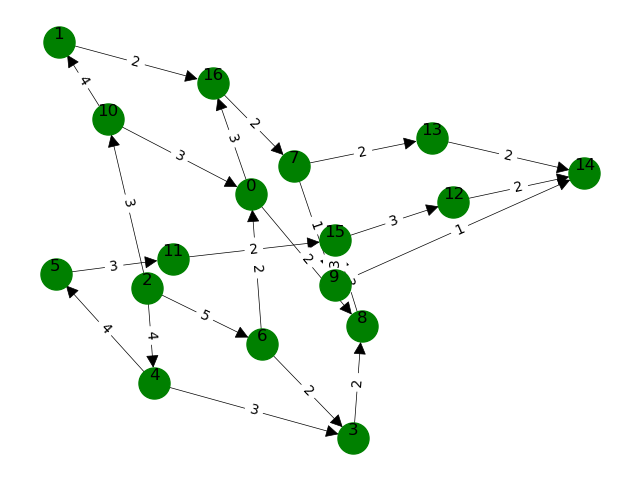
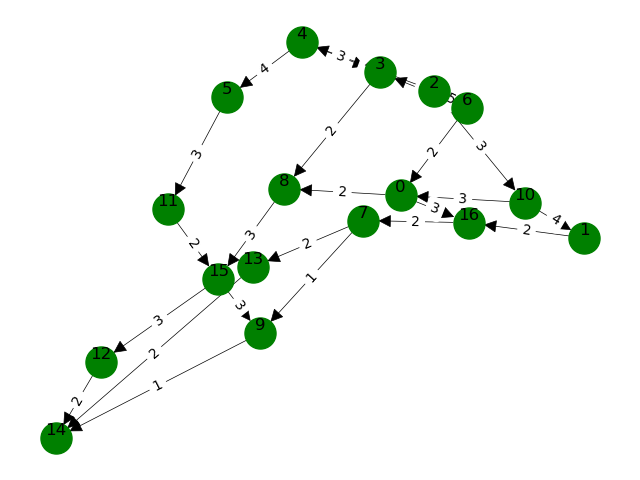
Fixed path, fixed, ord_matrix, FIXED ALL!!!!!

diff --git a/functional.py b/functional.py
@@ -1,4 +1,6 @@
 import matplotlib.pyplot as plt
+import networkx as nx
+import numpy as np
 # матрица смежности
 matrix = [
     [0, 0, 0, 0, 0, 0, 0, 0, 2, 0, 0, 0, 0, 0, 0, 0, 3],
@@ -34,12 +36,59 @@ def stock_source_search(matrix):
       source.append(i)
   return stock, source
 
+def GetInputNodesArray(nodes, count):
+    array = []
+    for i in count: 
+        step=0
+        for j in count:
+            if nodes[i][j]==1:step+=1
+        array.insert(i,step)
+    return array;
 
+def TopologicSort(nodes_input, count):
+    nodes = []
+    for i in count:
+      nodes.append([])
+      for j in count:
+        if nodes_input[i][j] != 0: nodes[i].append(1)
+        else: nodes[i].append(0)
+    levels =[];
+    workArray = GetInputNodesArray(nodes, count);
+    completedCounter = 0;
+    currentLevel = 0;
+    while (completedCounter != len(nodes)):
+        for i in count:
+            if (workArray[i] == 0):
+                ind=0
+                #добавляем обработанную вершину
+                levels.insert(completedCounter,i);
+                for node in nodes:
+                    if node[i]==1:
+                        workArray[ind]-=1
+                    ind+=1
+    
+                workArray[i] = -1; # Помечаем вершину как обработанную
+                completedCounter+=1;
+        currentLevel+=1;
+    levels.reverse()
+    return levels#осталось выбрать в обратном порядке
 
 def ordered_graph(matrix):
     """Формирование упорядоченного графа по входной матрице смежности
     Возвращает ord_matrix - упорядоченную матрицу и ord_index - словарь {старый индекс: значение - новый индекс}
     adjacency_set - словарь: ключ - начальный индекс, значение - список начальных индексов смежности"""
+    # проверка того, что граф можно упорядочить. т.е. проверка отсутствия цикла
+    G = nx.from_numpy_matrix(np.matrix(matrix), create_using=nx.DiGraph)
+    try:
+        cycle = nx.find_cycle(G)
+        if len(cycle) != 0:
+          cycle_i_1 = []
+          for tup in cycle:
+            cycle_i_1 += [(tup[0]+1, tup[1]+1)]
+
+          return -1, -1, -1, cycle_i_1
+    except:
+        pass
     stock, source = stock_source_search(matrix)
     ord_matrix = []   # Упорядоченная матрица смежности
     adjacency_set = {}  # словарь: ключ - начальный индекс, значение - список начальных индексов смежности
@@ -53,94 +102,20 @@ def ordered_graph(matrix):
     # формирование упорядоченного графа
     j = 0
     ord_index = {} # словарь ключ - старый индекс, значение - новый индекс
-    current_V_list = source
-    for i in range(len(matrix)):
-      next_inx = []
-      for V in current_V_list:
-        for val in adjacency_set[V]:
-          next_inx.append(val)
-        if not (V in ord_index):
-          ord_index.update({V: j})
-          j+=1
-      current_V_list = next_inx
+    temp_ord_index = TopologicSort(matrix, range(len(matrix)))
+    for i in range(len(temp_ord_index)):
+      ord_index.update({temp_ord_index[i]: i})
     
     for i in ord_index.keys():
       for j in range(len(adjacency_set[i])):
         ord_matrix[ord_index[i]][ord_index[adjacency_set[i][j]]] = matrix[i][adjacency_set[i][j]]
-    
+
     return ord_matrix, ord_index, adjacency_set
 
 
-def road_search(matrix, inital_inx, final_inx):
+def min_path(matrix, inital_inx, final_inx):
     """Поиск минимального расстояния
     return optimal_way - список индексов представляющих собой оптимальный путь, min_dist - расстояние пройденное по оптимальному пути"""
-    # поиск индексов смежности
-    adjacency_set = {}  # словарь: ключ - начальный индекс, значение - список индексов смежности
-    for i in range(len(matrix)):
-        visitors = []   # список смежностей с элементом
-        for j in range(len(matrix[i])):
-            if matrix[i][j] != 0:
-                visitors.append(j)
-        adjacency_set.update({i: visitors})
-
-
-    ways = []
-    visitors = adjacency_set[inital_inx]
-    for v in visitors:
-      ways.append([inital_inx, v]) # сформировали пути [i -> v]
-    
-    previous_visitors = visitors
-    next_vis = []
-    for way in ways:
-      next_vis = adjacency_set[way[-1]]
-      for next in next_vis:
-        visitors.append(next)
-
-    flag = 0
-    while True:
-      if flag > inital_inx: break
-      temp_ways = []
-      for pre_v in previous_visitors:
-         for way in ways:
-            next_vis = adjacency_set[pre_v] # Если путь закончивет одним из предыдущих знач, то добавлем следующее
-            if pre_v in way:
-               for v in next_vis:
-                temp_ways.append(way + [v])
-      ways = temp_ways
-      
-      leave_count = 0 # Если это число равно числу путей, то выходим из цикла
-      for way in ways:
-         if way[-1] >= final_inx:
-            leave_count += 1
-      if leave_count == len(ways):
-          # расчет минимального пути, когда уже все пути посчитаны
-          all_SUMM = []
-          for way in ways:
-              temp_sum = 0
-              for i in range(len(way)-1):
-                temp_sum += matrix[way[i]][way[i+1]]
-              all_SUMM.append(temp_sum)
-          min_dist = min(all_SUMM)
-          optimal_way = ways[all_SUMM.index(min_dist)]
-          return optimal_way, min_dist                      # RETURN
-
-      previous_visitors = visitors
-      visitors = []
-
-      next_vis = []
-      for way in ways:
-        next_vis = adjacency_set[way[-1]]
-        for next in next_vis:
-          visitors.append(next)
-
-      visitors = set(visitors)
-      visitors = list(visitors)
-      
-      flag += 1
-
-import networkx as nx
-import numpy as np
-def min_path(matrix, inital_inx, final_inx):
     ord_A = ordered_graph(matrix)[0]
     G = nx.from_numpy_matrix(np.matrix(ord_A), create_using=nx.DiGraph)
     summa = 0
@@ -154,22 +129,34 @@ def min_path(matrix, inital_inx, final_inx):
         return path, summa
 
     except:
-        print('Нет пути или неправильно указаны вершины')
+        # нет пути
         return -1, -1
 
+import random as rnd
+def graph_generation_without_loop(matrix_size):
+    """Генерация графа без цикла"""
+    matrix = []
+    source, stock = rnd.randint(0, matrix_size-1), rnd.randint(0, matrix_size-1)
+    for i in range(matrix_size):
+      matrix.append([])
+      for j in range(matrix_size):
+        var = int()
+        if i == stock or j == source or i == j:
+            var = 0
+        else:
+            for v in range(15):
+                var = rnd.randint(0, 10)
+                if var == 0: break
+        matrix[i].append(var)
+    # проверка того, что граф можно упорядочить. т.е. проверка отсутствия цикла
+    while True:
+      G = nx.from_numpy_matrix(np.matrix(matrix), create_using=nx.DiGraph)
+      try:
+          cycle = nx.find_cycle(G)
+          print(cycle, len(cycle))
+          # if len(cycle) == 0: break
+          matrix[cycle[0][0]][cycle[0][1]] = 0
+      except:
+          break
 
-
-if __name__ == "__main__":
-
-  # stock, source = stock_source_search(matrix)
-  ord_A = ordered_graph(matrix)[0]
-
-  # ways = road_search(ord_A, 0, 16)
-  min_path(ord_A, 1, 17)
-
-  # print(ways)
-
-  # for i in range(17):
-  #   print(ord_A[i])
-  
-  # print(vertex_redefinition)
+    return matrix

diff --git a/main.py b/main.py
@@ -54,6 +54,8 @@ def matrix_painting():
             try:
                 if int(A_matrix[i][j].get()) != 0:
                     A_matrix[i][j].config({"background": get_rgb((128, 203, 196))})
+                else:
+                    A_matrix[i][j].config({"background": "White"})
             except:
                 pass
 
@@ -97,19 +99,13 @@ def set_matrix(set_random=False):
     A_matrix = []   # матрица содержащая виджеты элементов исходной матрицы смежности
 
     if set_random:
+        random_matrix = graph_generation_without_loop(matrix_size)
         source, stock = rnd.randint(0, matrix_size-1), rnd.randint(0, matrix_size-1)
         for i in range(matrix_size):
             A_matrix.append([])
             for j in range(matrix_size):
-                var = int()
-                if i == stock or j == source or i == j:
-                    var = 0
-                else:
-                    for v in range(10):
-                        var = rnd.randint(0, 10)
-                        if var == 0: break
                 strVar = StringVar()
-                strVar.set(str(var))
+                strVar.set(str(random_matrix[i][j]))
                 temp_A_matrix = Entry(frame_A_matrix, width=3, textvariable=strVar, validate="all", validatecommand=matrix_painting); temp_A_matrix.place(x=20*j, y=20*i)
                 A_matrix[i].append(temp_A_matrix)
         set_random = False
@@ -126,7 +122,9 @@ def set_matrix(set_random=False):
             for i in range(matrix_size):
                 A_matrix.append([])
                 for j in range(matrix_size):
-                    temp_A_matrix = tk.Entry(frame_A_matrix, width=3, validate="all", validatecommand=matrix_painting); temp_A_matrix.place(x=20*j, y=20*i)
+                    strVar = StringVar()
+                    strVar.set(0)
+                    temp_A_matrix = tk.Entry(frame_A_matrix, width=3, textvariable=strVar, validate="all", validatecommand=matrix_painting); temp_A_matrix.place(x=20*j, y=20*i)
                     A_matrix[i].append(temp_A_matrix)
     matrix_painting()
 
@@ -138,10 +136,11 @@ def set_matrix(set_random=False):
     tk.Button(frame_button, text="Показать упорядочивание вершин", command=output_orderedVertex, width=50).place(x=0, y=50)
     tk.Button(frame_button, text="Построить матрицу смежности упорядоченного графа", command=output_orderedMatrix, width=50).place(x=0, y=75)
     tk.Button(frame_button, text="Показать исходный граф", command=source_graph, width=50).place(x=0, y=100)
-    tk.Button(frame_button, text="Показать упорядоченный граф", command=ordered_graph_plt     , width=50).place(x=0, y=125)
+    tk.Button(frame_button, text="Показать упорядоченный граф", command=ordered_graph_plt, width=50).place(x=0, y=125)
 
     
 def check_source_stock(matr):
+    """Проверка наличия стоков и истоков"""
     stock, source = stock_source_search(matr)
     if stock == [] and source == []:
         messagebox.showerror(title="Ошибка ввода", 
@@ -159,6 +158,7 @@ def check_source_stock(matr):
 
 def readMatrix():
     """Чтение матрицы в глобальную переменную и проверка значений матрицы"""
+    matrix_painting()
     global A_matrix_value
     A_matrix_value = []
     for i in range(len(A_matrix)):
@@ -212,6 +212,9 @@ def output_orderedMatrix():
     if readMatrix() != 0: return
     
     ord_A_matrix = ordered_graph(A_matrix_value)[0]     # упорядочивание матрицы смежности
+    if ord_A_matrix == -1:
+        messagebox.showinfo(message=f'В графе найден цикл {ordered_graph(A_matrix_value)[3]}')
+        return -1
 
     # вывод упорядоченной матрицы
     label_ordMatrix = ttk.Label(root, text="Матрица смежности упорядоченного графа")
@@ -287,6 +290,9 @@ def output_minimal_way():
         return -1
         
     optimal_way, min_dist = min_path(A_matrix_value, entery_init_value, entery_finish_value)
+    if optimal_way == -1 and min_dist == -1:
+        messagebox.showerror(title="Ошибка!", 
+            message="Нет пути или неверно заданы вершины.")
     optWay_text = ""
     for v in list(optimal_way):
         optWay_text += str(v) + "-->"
@@ -327,9 +333,12 @@ def output_graphLevels():
     if readMatrix() != 0: return
 
     graph_levelsDict = ordered_graph(A_matrix_value)[2]
+    if graph_levelsDict == -1:
+        messagebox.showinfo(message=f'В графе найден цикл {ordered_graph(A_matrix_value)[3]}')
+        return -1
 
     headerLabel = ttk.Label(root, text="Уровни графа")
-    headerLabel.place(x=25*len(A_matrix_value)-25, y=195)
+    headerLabel.place(x=20+25*len(A_matrix_value)-25, y=195)
     graph_levels_labels = [headerLabel]
     i=0
     for key in graph_levelsDict.keys():
@@ -340,7 +349,7 @@ def output_graphLevels():
             labelText += str(v) + ", "
         labelText = labelText[0:len(labelText)-2] + "]}"
         temp = ttk.Label(root, text=labelText)
-        temp.place(x=25*len(A_matrix_value)-20, y=195+20*i)
+        temp.place(x=20+25*len(A_matrix_value)-20, y=195+20*i)
         graph_levels_labels.append(temp)
 
 
@@ -355,6 +364,10 @@ def output_orderedVertex():
     if readMatrix() != 0: return
 
     ord_vertex = ordered_graph(A_matrix_value)[1]   # словарь ключ - старый индекс, значение - новый индекс
+    if ord_vertex == -1:
+        messagebox.showinfo(message=f'В графе найден цикл {ordered_graph(A_matrix_value)[3]}')
+        return -1
+    
 
     headerLabel = ttk.Label(root, text="Упорядочивание вершин")
     headerLabel.place(x=25*len(A_matrix_value)+150-25, y=195)
@@ -389,6 +402,9 @@ def ordered_graph_plt():
     """График упорядоченного графа"""
     if readMatrix() != 0: return
     ord_A_matrix = ordered_graph(A_matrix_value)[0]
+    if ord_A_matrix == -1:
+        messagebox.showinfo(message=f'В графе найден цикл {ordered_graph(A_matrix_value)[3]}')
+        return -1
 
     fig = plt.figure()
     G = nx.from_numpy_matrix(np.matrix(ord_A_matrix), create_using=nx.DiGraph)
@@ -397,38 +413,14 @@ def ordered_graph_plt():
     labels = nx.get_edge_attributes(G, "weight")
     nx.draw_networkx_edge_labels(G, pos=layout, edge_labels=labels)
     try:
-        zukl = nx.find_cycle(G)
-        messagebox.showinfo(message=f'В графе найден цикл {zukl}')
+        cycle = nx.find_cycle(G)
+        messagebox.showinfo(message=f'В графе найден цикл {cycle}')
+        return
     except:
         pass
     fig.savefig("orderedGraph.png")
     image = Image.open("orderedGraph.png")
     image.show()
-
-
-
-# def graph_window(ord=False):
-#     """Отдельное окно для визуализации графа"""
-#     window = Tk()
-#     window.geometry('1366x786+0+0')    # ширина на высоту и сколько пикселей от верхнего левого угла
-
-#     if not ord:
-#         source_graph()
-#         title_ = "Визуализация исходного графа"
-#         file = "sourceGraph.png"
-        
-#     else:
-#         ordered_graph_plt()
-#         title_ = "Визуализация упорядоченного графа"
-#         file = "orderedGraph.png"
-
-#     window.title(title_)
-#     img = PhotoImage(file=file)
-#     graph = ttk.Label(window, image=img)
-#     graph.image_ref = img
-#     graph.place(x=0, y=0)
-
-#     window.mainloop()
 
     
 
